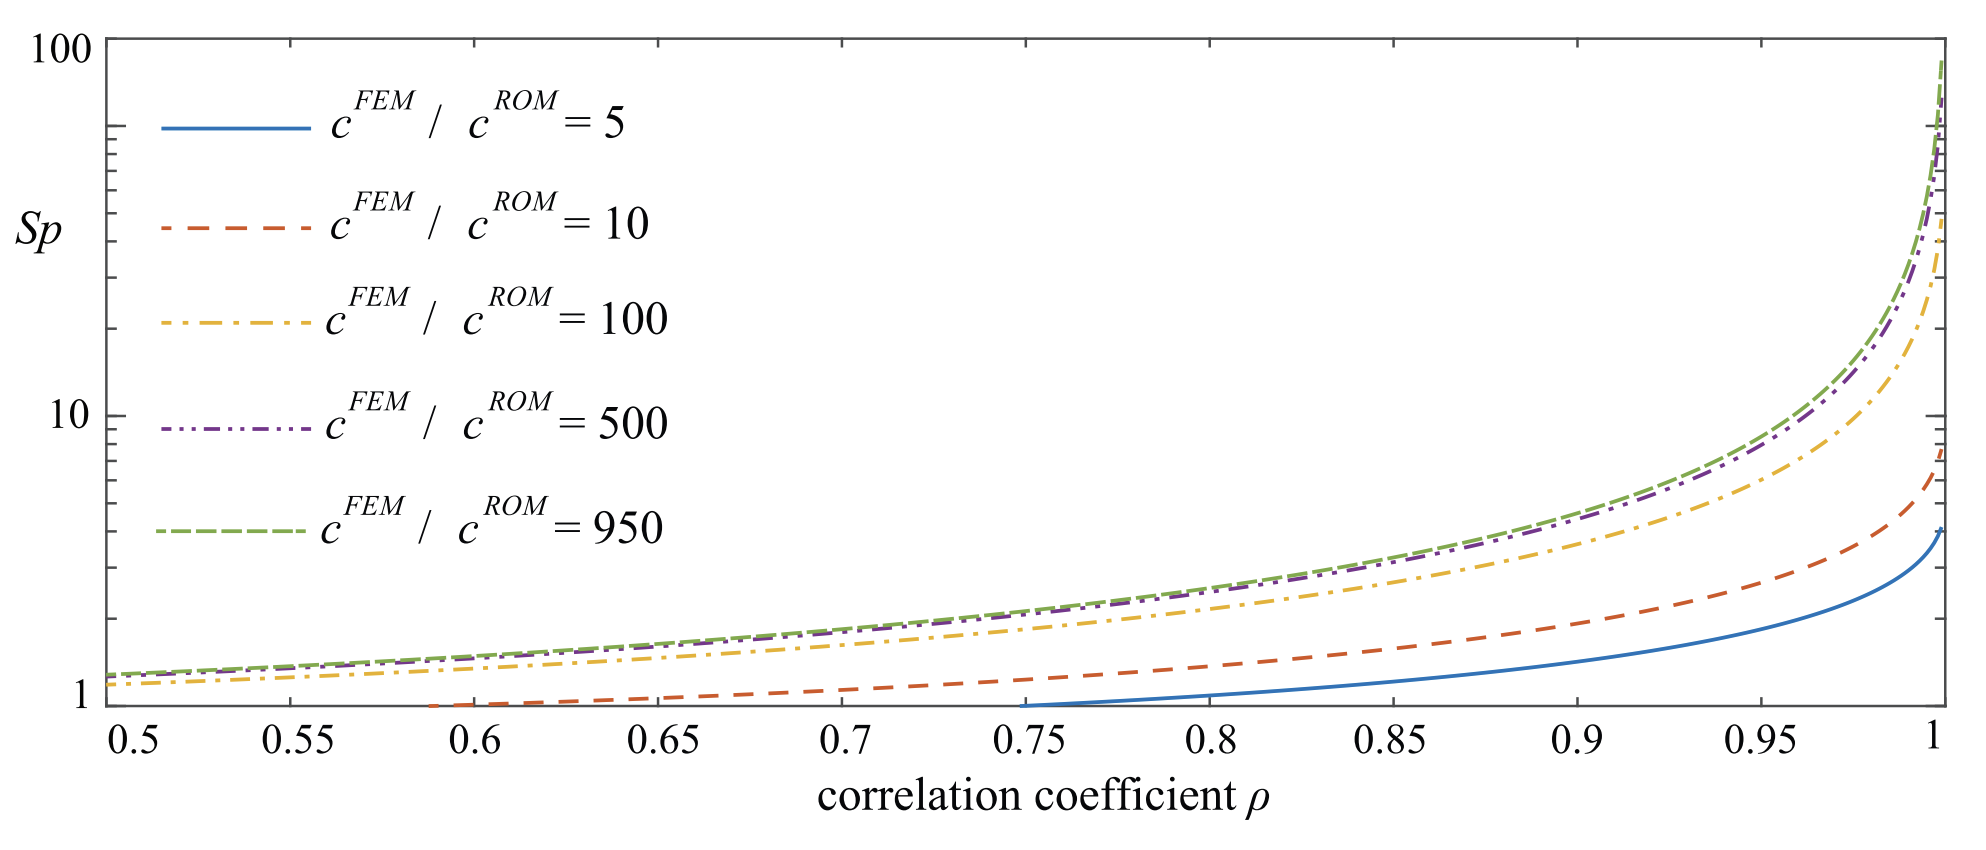
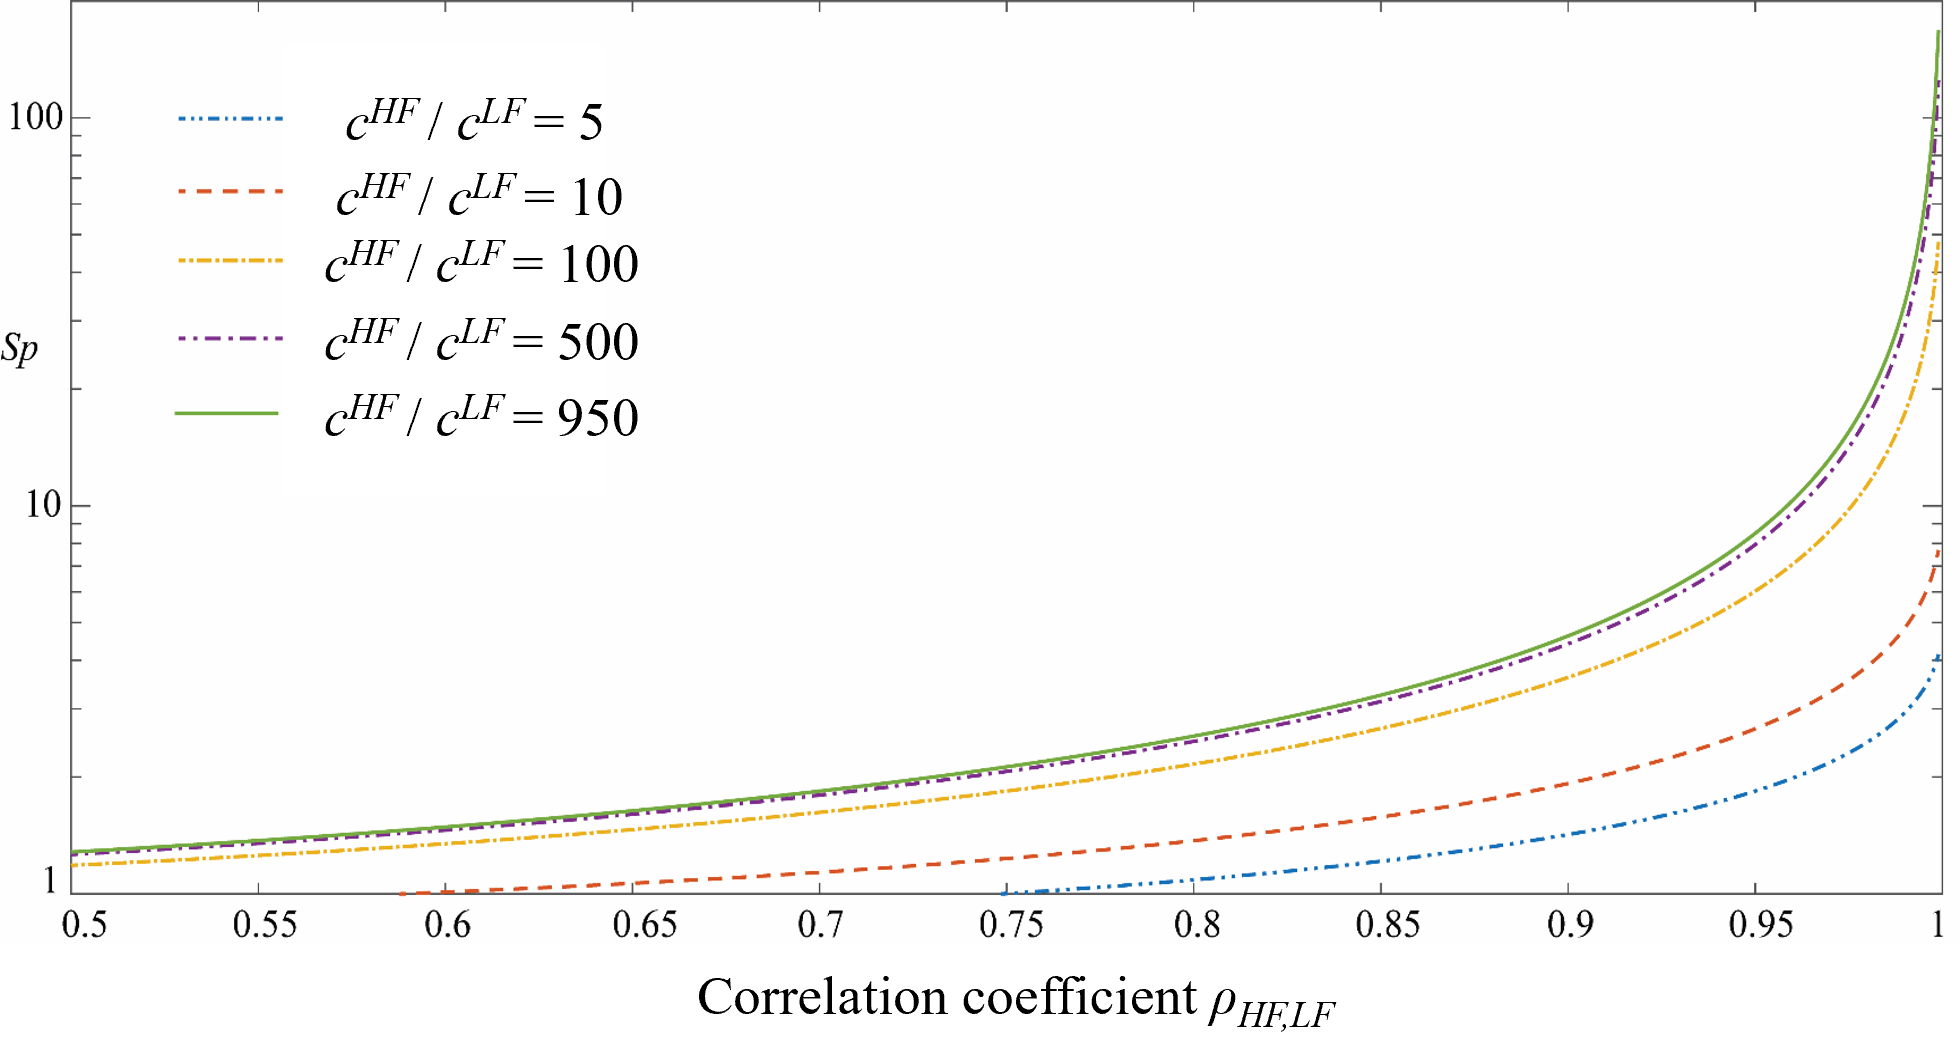
sy - updating documentation after Alex's review

diff --git a/docs/common/technical_manual/desktop/SimCenterUQTechnical.rst b/docs/common/technical_manual/desktop/SimCenterUQTechnical.rst
@@ -533,7 +533,7 @@ Before running the MFMC simulation model, the users are advised to check the val
 
 * **The response of different models should have high correlation**. The efficiency of MFMC heavily depends on the correlation between the HF and LF model outputs. Only if the correlation is fairly high, the MF estimation is meaningfully efficient than conducting only HF simulations. 
 
-:numref:`fig-MF-SP` shows the expected speed-up factor for different computation time ratios and correlation coefficient values. One can notice that only when the ratio of the model evaluation time is greater than 100 and when the correlation is greater than 0.85-0.9, the expected speed-up is significant.
+Efficiency of MFMC can be evaluated using the speed-up ratio, defined as the reduction of computational effort you need to get the same Monte Carlo statistical accuracy by the MFMC and direct Monte Carlo method. :numref:`fig-MF-SP` shows the expected speed-up factor for different computation time ratios and correlation coefficient values. One can notice that only when the ratio of the model evaluation time is greater than 100 and when the correlation is greater than 0.85-0.9, the expected speed-up is significant [Patsialis2021]_. The formulation used to estimate the speed-up ratio can found at the end of this section.
 
 .. _fig-MF-SP:
 
@@ -542,12 +542,12 @@ Before running the MFMC simulation model, the users are advised to check the val
    :figclass: align-center
    :width: 900
 
-   Speed-up offered by the MFMC estimation (Fig 1 in [Patsialis2021]_), :math:`c^{FEM}`: HF model evaluation time, :math:`c^{ROM}`: LF model evaluation time, :math:`\rho`: correlation between HF and LF responses.
+   Speed-up offered by the MFMC estimation
 
 
 Algorithm details
 ----------------------------------------------
-The implementation of MFMC in |short tool id| follows that of [Patsialis2021]_. Let us denote the HF and LF output for a given input :math:`x` as 
+The implementation of MFMC in |short tool id| follows that of [Patsialis2021]_ which is based on the original work of [Peherstorfer2016]_. Let us denote the HF and LF output for a given input :math:`x` as 
 
    .. math::
 
